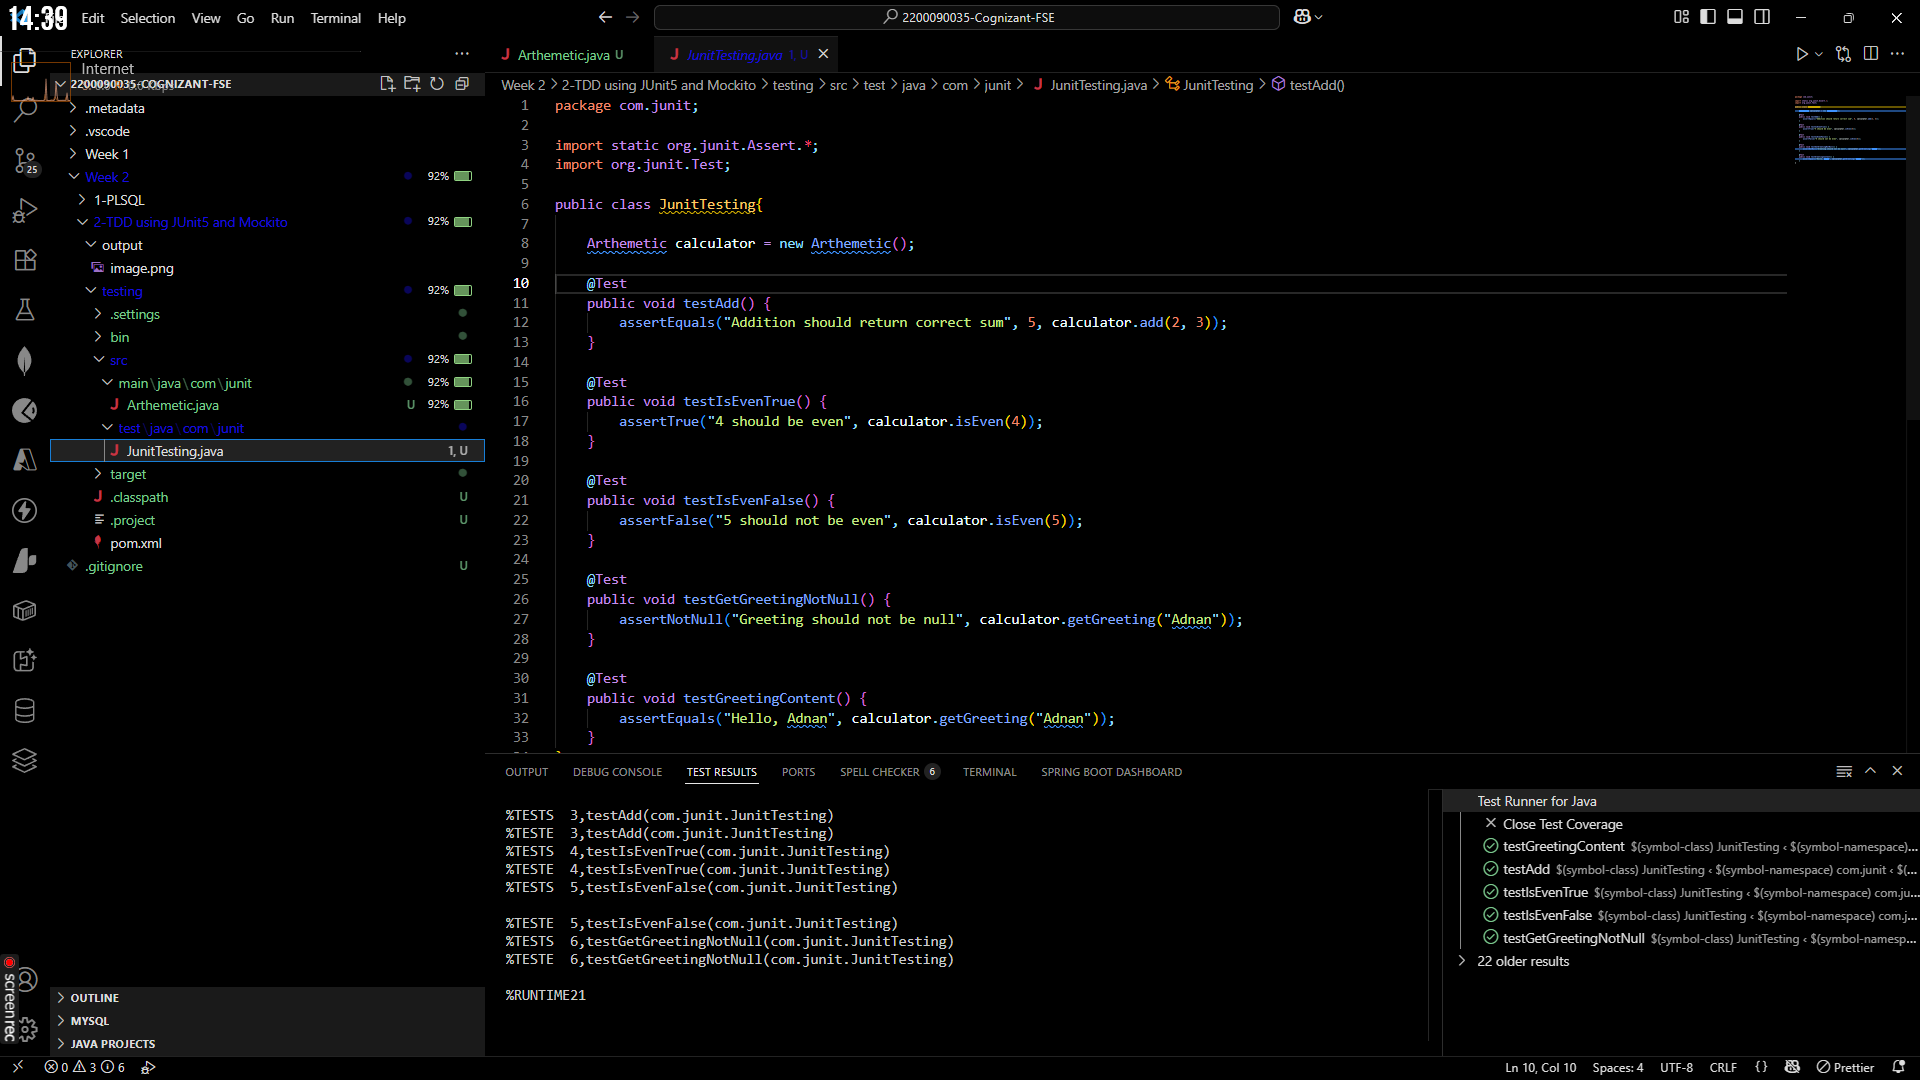
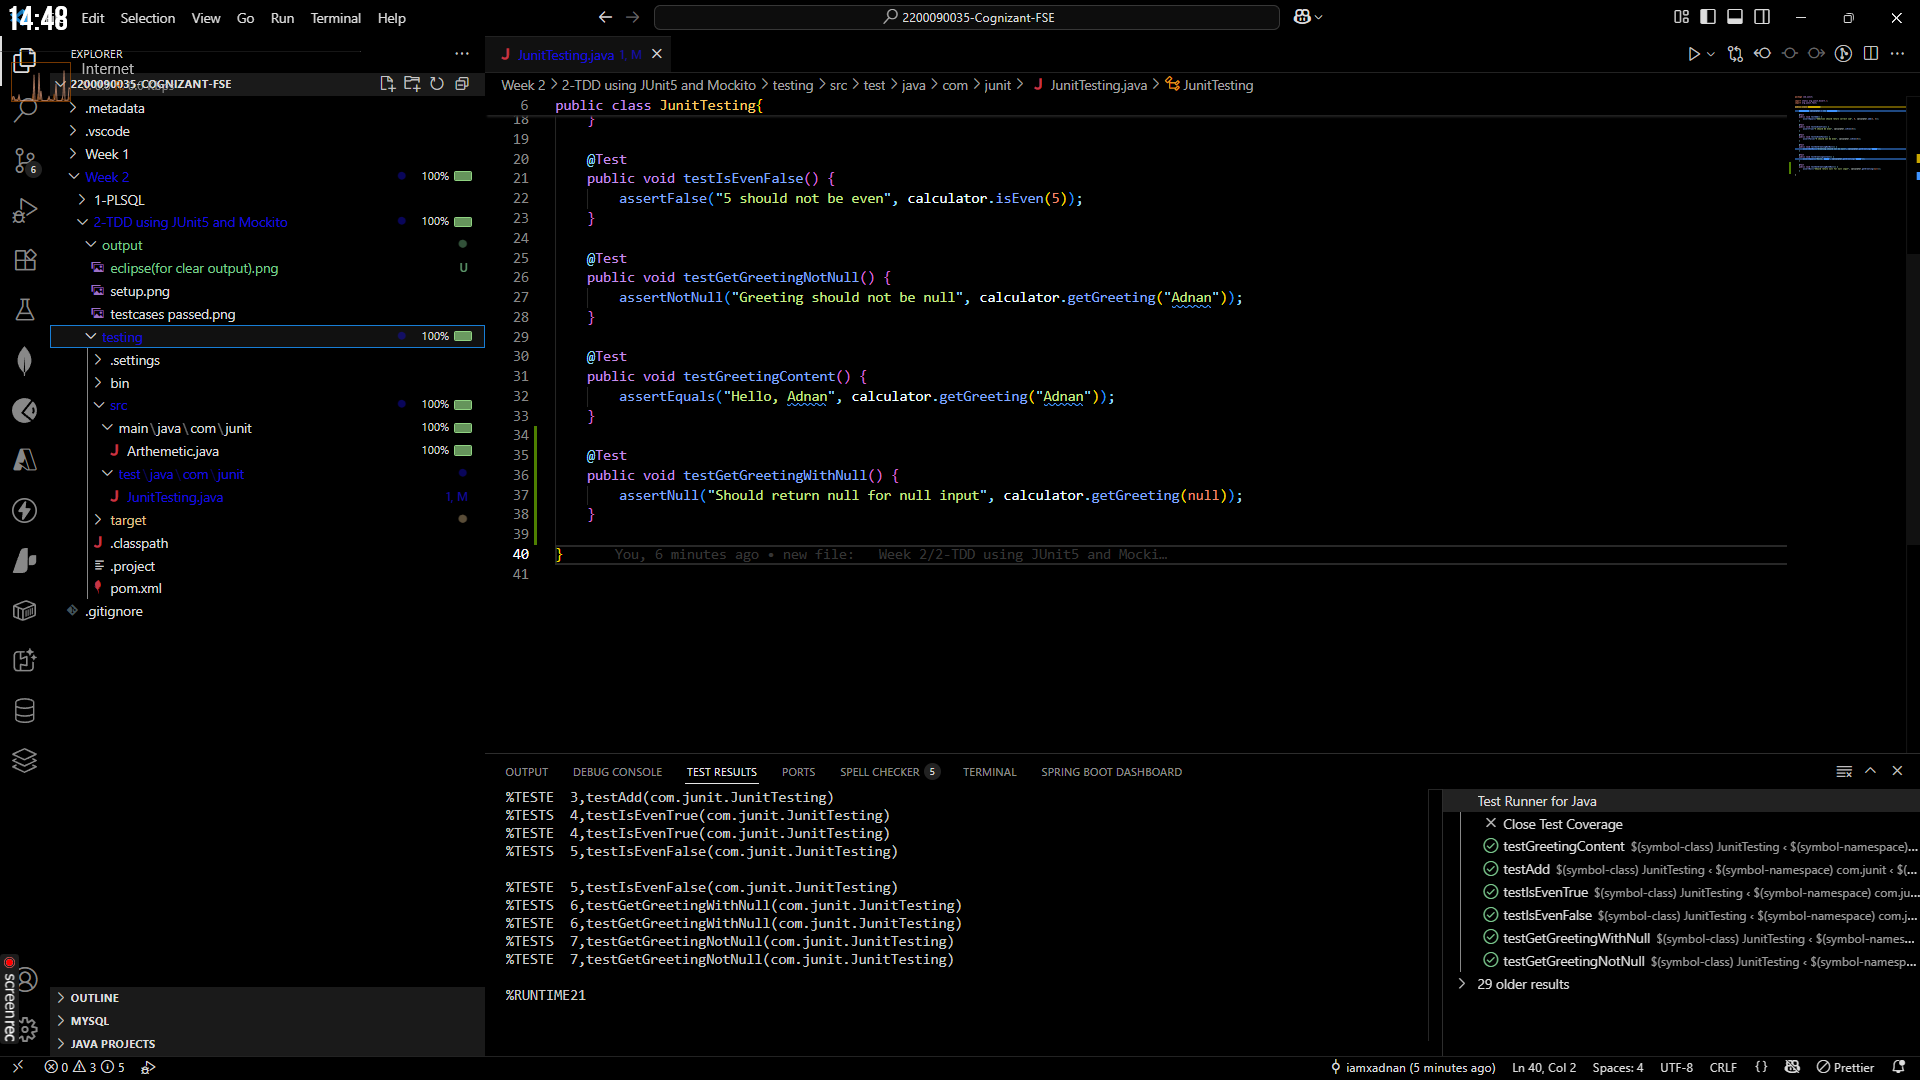
modified:   Week 2/2-TDD using JUnit5 and Mockito/output/testcases passed.png

diff --git a/Week 2/2-TDD using JUnit5 and Mockito/testing/src/test/java/com/junit/JunitTesting.java b/Week 2/2-TDD using JUnit5 and Mockito/testing/src/test/java/com/junit/JunitTesting.java
@@ -31,4 +31,10 @@ public class JunitTesting{
     public void testGreetingContent() {
         assertEquals("Hello, Adnan", calculator.getGreeting("Adnan"));
     }
+
+    @Test
+    public void testGetGreetingWithNull() {
+        assertNull("Should return null for null input", calculator.getGreeting(null));
+    }
+
 }
